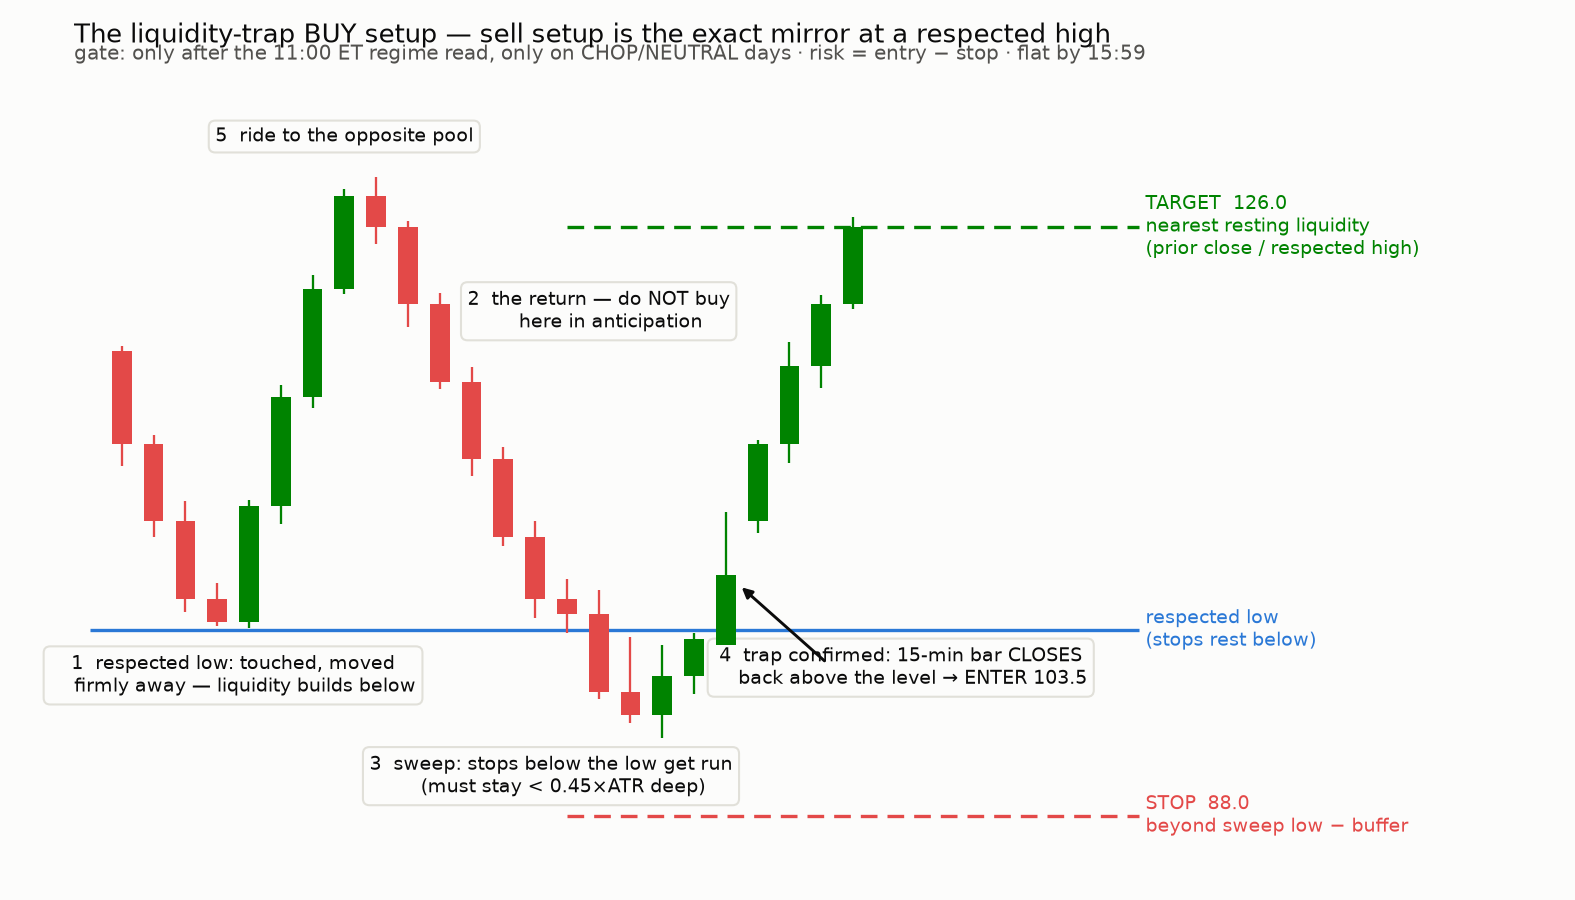
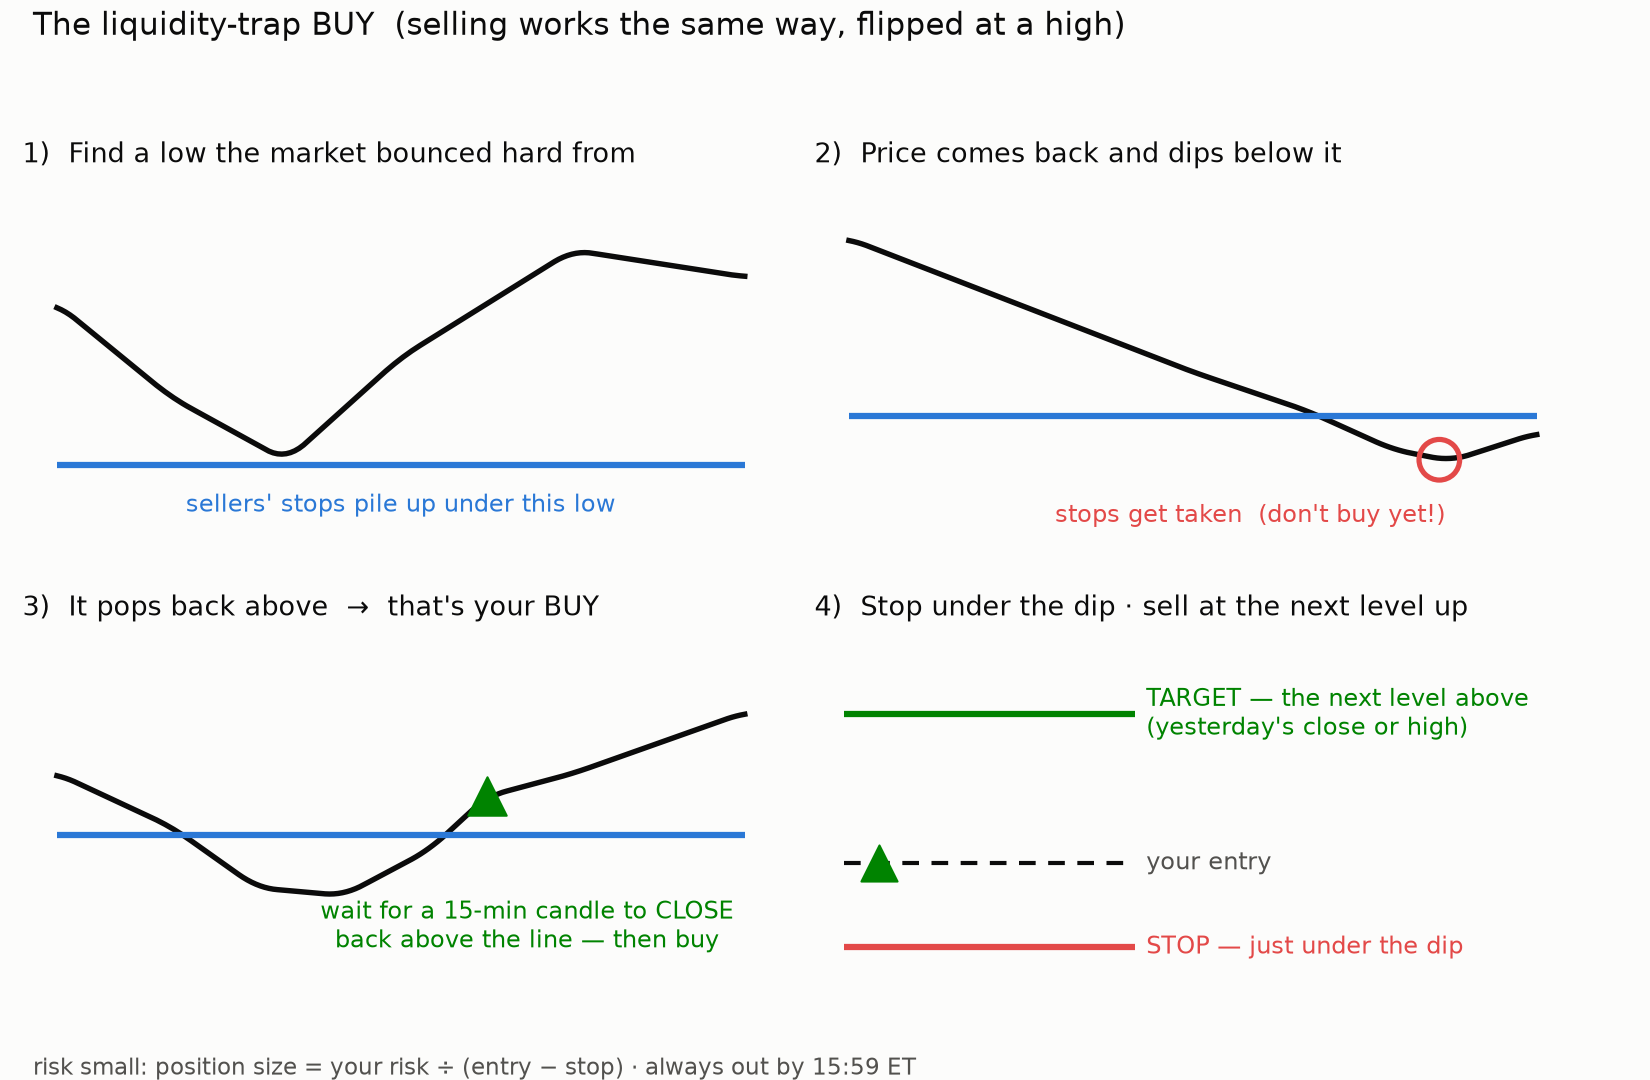
Simplify setup guide charts to storyboard style
Claude-Session: https://claude.ai/code/session_01Fckbt5zimQuUy6dWzGJhzJ

diff --git a/scripts/make_setup_guide.py b/scripts/make_setup_guide.py
@@ -1,7 +1,8 @@
-"""Visual guide to the (gated) liquidity-trap setup. Three figures:
-  1. anatomy of the long setup, every rule annotated
-  2. the three no-trade cases
-  3. the real journaled trade (ES 2026-07-01) on actual 5-min bars
+"""Visual guide to the liquidity-trap setup — storyboard style, one idea per
+panel, minimal text. Three images:
+  guide1: 4-step storyboard of the buy setup
+  guide2: the three "skip it" cases
+  guide3: the real July 1 ES trade, simplified, with the day's check-ins
 """
 
 import sys
@@ -11,7 +12,7 @@ from pathlib import Path
 import matplotlib
 matplotlib.use("Agg")
 import matplotlib.pyplot as plt
-from matplotlib.patches import FancyArrowPatch, Rectangle
+from matplotlib.patches import Rectangle
 import numpy as np
 import pandas as pd
 
@@ -20,208 +21,172 @@ from regime.data import load_ibkr_json
 
 IMG = Path(__file__).resolve().parents[1] / "reports" / "img"
 SURFACE, INK, INK2, MUTED, GRID = "#fcfcfb", "#0b0b0b", "#52514e", "#898781", "#e1e0d9"
-BLUE, GREEN, RED, VIOLET = "#2a78d6", "#008300", "#e34948", "#4a3aa7"
+BLUE, GREEN, RED = "#2a78d6", "#008300", "#e34948"
 
 plt.rcParams.update({
     "figure.facecolor": SURFACE, "axes.facecolor": SURFACE,
-    "font.family": "sans-serif", "text.color": INK,
-    "axes.edgecolor": "#c3c2b7", "axes.labelcolor": INK2,
-    "xtick.color": MUTED, "ytick.color": MUTED,
-    "axes.grid": False,
+    "font.family": "sans-serif", "text.color": INK, "axes.grid": False,
     "axes.spines.top": False, "axes.spines.right": False,
     "axes.spines.left": False, "axes.spines.bottom": False,
 })
 
 
-def candles(ax, o, h, l, c, x0=0, alpha=1.0, w=0.62):
-    for i, (oo, hh, ll, cc) in enumerate(zip(o, h, l, c)):
-        x = x0 + i
-        up = cc >= oo
-        col = GREEN if up else RED
-        ax.vlines(x, ll, hh, color=col, lw=1.1, alpha=alpha, zorder=3)
-        lo, hi = (oo, cc) if up else (cc, oo)
-        ax.add_patch(Rectangle((x - w / 2, lo), w, max(hi - lo, 0.15),
-                               facecolor=col, edgecolor="none", alpha=alpha, zorder=4))
+def smooth(keys, n=160):
+    """Smooth line path through (x, y) key points."""
+    kx, ky = zip(*keys)
+    x = np.linspace(kx[0], kx[-1], n)
+    y = np.interp(x, kx, ky)
+    k = 9
+    pad = np.r_[np.full(k // 2, y[0]), y, np.full(k // 2, y[-1])]
+    return x, np.convolve(pad, np.ones(k) / k, "valid")
 
 
-def path_to_ohlc(pts, spread=1.6, seed=7):
-    rng = np.random.default_rng(seed)
-    o = np.array(pts[:-1], float)
-    c = np.array(pts[1:], float)
-    h = np.maximum(o, c) + rng.uniform(0.2, spread, len(o))
-    l = np.minimum(o, c) - rng.uniform(0.2, spread, len(o))
-    return o, h, l, c
+def clean(ax):
+    ax.set_xticks([])
+    ax.set_yticks([])
 
 
-# ------------------------------------------------------------------ fig 1
-LVL, EXT, ENT, STP, TGT = 100.0, 93.0, 103.5, 88.0, 126.0
-pts = [118, 112, 107, 102, 100.5, 108, 115, 122, 128, 126, 121, 116, 111, 106,
-       102, 101, 96, 94.5, 97, 103.5, 107, 112, 117, 121, 126]
-o, h, l, c = path_to_ohlc(pts, seed=3)
-l[3] = 100.2; l[4] = LVL + 0.1          # the respected touch stays above
-h[16] = LVL - 0.5; h[17] = LVL - 1.0    # sweep bars stay below the level
-l[16] = 94.0; l[17] = EXT               # sweep extreme
-c[18] = LVL - 0.6; h[18] = LVL - 0.2    # stall below
-o[19] = 99.0; c[19] = ENT               # reclaim close = entry bar
+LVL = 100
 
-fig, ax = plt.subplots(figsize=(10.5, 6.0), dpi=150)
-candles(ax, o, h, l, c)
-n = len(o)
-ax.hlines(LVL, -1, n + 8, color=BLUE, lw=1.6)
-ax.text(n + 8.2, LVL, "respected low\n(stops rest below)", color=BLUE, fontsize=9, va="center")
-ax.hlines(STP, 14, n + 8, color=RED, lw=1.6, ls=(0, (5, 3)))
-ax.text(n + 8.2, STP, "STOP  88.0\nbeyond sweep low − buffer", color=RED, fontsize=9, va="center")
-ax.hlines(TGT, 14, n + 8, color=GREEN, lw=1.6, ls=(0, (5, 3)))
-ax.text(n + 8.2, TGT, "TARGET  126.0\nnearest resting liquidity\n(prior close / respected high)", color=GREEN, fontsize=9, va="center")
-
-steps = [
-    (3.5, 96.0, "1  respected low: touched, moved\n    firmly away — liquidity builds below", "center"),
-    (15.0, 119.5, "2  the return — do NOT buy\n    here in anticipation", "center"),
-    (13.5, 89.5, "3  sweep: stops below the low get run\n    (must stay < 0.45×ATR deep)", "center"),
-    (24.5, 96.5, "4  trap confirmed: 15-min bar CLOSES\n    back above the level → ENTER 103.5", "center"),
-    (7.0, 131.5, "5  ride to the opposite pool", "center"),
+# ------------------------------------------------------------ guide 1
+fig, axes = plt.subplots(2, 2, figsize=(11, 7.2), dpi=150)
+titles = [
+    "1)  Find a low the market bounced hard from",
+    "2)  Price comes back and dips below it",
+    "3)  It pops back above  →  that's your BUY",
+    "4)  Stop under the dip · sell at the next level up",
 ]
-for x, y, txt, ha in steps:
-    ax.text(x, y, txt, fontsize=9, color=INK, ha=ha,
-            bbox=dict(facecolor=SURFACE, edgecolor=GRID, boxstyle="round,pad=0.35"))
-ax.annotate("", xy=(19.4, ENT - 0.6), xytext=(22.2, 97.8),
-            arrowprops=dict(arrowstyle="-|>", color=INK, lw=1.4))
-ax.set_xlim(-1.5, n + 21)
-ax.set_ylim(84, 136)
-ax.set_yticks([])
-ax.set_xticks([])
-ax.set_title("The liquidity-trap BUY setup — sell setup is the exact mirror at a respected high",
-             fontsize=12.5, loc="left", color=INK, pad=14)
-ax.text(0, 1.015, "gate: only after the 11:00 ET regime read, only on CHOP/NEUTRAL days · risk = entry − stop · flat by 15:59",
-        transform=ax.transAxes, fontsize=9.5, color=INK2)
-fig.tight_layout()
+
+# panel 1: bounce away
+ax = axes[0, 0]
+x, y = smooth([(0, 112), (2, 105), (4, 100.3), (6, 108), (9, 116), (12, 114)])
+ax.plot(x, y, color=INK, lw=2.6)
+ax.hlines(LVL, 0, 12, color=BLUE, lw=3)
+ax.text(6, 96.5, "sellers' stops pile up under this low", fontsize=11.5, color=BLUE, ha="center")
+ax.set_ylim(92, 121)
+
+# panel 2: return + dip below
+ax = axes[0, 1]
+x, y = smooth([(0, 116), (3, 110), (6, 104), (8, 100.5), (9.5, 97), (10.5, 96), (12, 98.5)])
+ax.plot(x, y, color=INK, lw=2.6)
+ax.hlines(LVL, 0, 12, color=BLUE, lw=3)
+ax.scatter([10.3], [96.1], s=380, facecolor="none", edgecolor=RED, lw=2.5, zorder=5)
+ax.text(7.0, 90.5, "stops get taken  (don't buy yet!)", fontsize=11.5, color=RED, ha="center")
+ax.set_ylim(86, 121)
+
+# panel 3: reclaim = entry
+ax = axes[1, 0]
+x, y = smooth([(0, 104), (2, 100.5), (3.5, 96.5), (5, 96), (6.5, 99), (7.5, 102.5), (9, 104), (12, 108)])
+ax.plot(x, y, color=INK, lw=2.6)
+ax.hlines(LVL, 0, 12, color=BLUE, lw=3)
+ax.scatter([7.5], [102.5], marker="^", s=340, color=GREEN, zorder=5)
+ax.text(8.2, 92.6, "wait for a 15-min candle to CLOSE\nback above the line — then buy",
+        fontsize=11.5, color=GREEN, ha="center")
+ax.set_ylim(87.5, 113)
+
+# panel 4: the bracket
+ax = axes[1, 1]
+ax.hlines(96, 1, 11, color=RED, lw=3)
+ax.hlines(102.5, 1, 11, color=INK, lw=2, ls=(0, (4, 3)))
+ax.hlines(114, 1, 11, color=GREEN, lw=3)
+ax.scatter([2.2], [102.5], marker="^", s=300, color=GREEN, zorder=5)
+ax.text(11.4, 96, "STOP — just under the dip", fontsize=11.5, color=RED, va="center")
+ax.text(11.4, 102.5, "your entry", fontsize=11.5, color=INK2, va="center")
+ax.text(11.4, 114, "TARGET — the next level above\n(yesterday's close or high)", fontsize=11.5, color=GREEN, va="center")
+ax.set_xlim(0, 26)
+ax.set_ylim(90, 120)
+
+for ax, t in zip(axes.flat, titles):
+    ax.set_title(t, fontsize=13, loc="left", color=INK, pad=10)
+    clean(ax)
+fig.suptitle("The liquidity-trap BUY  (selling works the same way, flipped at a high)",
+             fontsize=15, x=0.02, ha="left", color=INK, y=0.99)
+fig.text(0.02, 0.005, "risk small: position size = your risk ÷ (entry − stop) · always out by 15:59 ET",
+         fontsize=11, color=INK2)
+fig.tight_layout(rect=[0, 0.03, 1, 0.94])
 fig.savefig(IMG / "guide1_anatomy.png", facecolor=SURFACE)
 
-# ------------------------------------------------------------------ fig 2
-fig, axes = plt.subplots(1, 3, figsize=(12.5, 4.4), dpi=150)
+# ------------------------------------------------------------ guide 2
+fig, axes = plt.subplots(1, 3, figsize=(12, 4.0), dpi=150)
 
-# (a) gap through
-pts_a = [96, 94, 92.5, 94.5, 93, 91, 92.5, 90.5, 92, 90]
-o2, h2, l2, c2 = path_to_ohlc(pts_a, spread=1.0, seed=5)
-axes[0].hlines(100, -1, len(o2) + 0.5, color=BLUE, lw=1.6)
-candles(axes[0], o2, h2, l2, c2)
-axes[0].set_ylim(85, 107)
-axes[0].text(len(o2) / 2, 102.2, "level 100 — session OPENED below it",
-             fontsize=9, ha="center", color=INK)
-axes[0].set_title("NO TRADE: gap through the level", fontsize=10.5, loc="left", color=RED, pad=12)
-axes[0].text(0, -0.06, "stops were consumed on the gap —\nno liquidity left to trap",
-             transform=axes[0].transAxes, fontsize=9, color=INK2, va="top")
+ax = axes[0]
+x, y = smooth([(0, 96), (3, 93), (6, 95), (9, 92), (12, 93.5)])
+ax.plot(x, y, color=INK, lw=2.6)
+ax.hlines(LVL, 0, 12, color=BLUE, lw=3)
+ax.set_ylim(86, 108)
+ax.set_title("✗  Day OPENED below the level", fontsize=12.5, loc="left", color=RED, pad=10)
+ax.text(0, -0.04, "stops already taken overnight —\nnothing left to trap", transform=ax.transAxes,
+        fontsize=11, color=INK2, va="top")
 
-# (b) too deep
-pts_b = [108, 104, 101, 99, 95, 88, 79, 70, 62, 56, 52]
-o2, h2, l2, c2 = path_to_ohlc(pts_b, spread=1.4, seed=8)
-axes[1].hlines(100, -1, len(o2) + 0.5, color=BLUE, lw=1.6)
-axes[1].hlines(55, -1, len(o2) + 0.5, color=RED, lw=1.2, ls=(0, (4, 3)))
-candles(axes[1], o2, h2, l2, c2)
-axes[1].set_ylim(40, 122)
-axes[1].text(len(o2) / 2, 113, "swept, kept going: > 0.45×ATR below", fontsize=9, ha="center", color=INK)
-axes[1].text(len(o2) / 2, 46, "0.45×ATR invalidation line", fontsize=8.5, ha="center", color=RED)
-axes[1].set_title("NO TRADE: sweep too deep — breakdown", fontsize=10.5, loc="left", color=RED, pad=12)
-axes[1].text(0, -0.06, "a trap stalls just past the level;\nacceptance beyond it = real move",
-             transform=axes[1].transAxes, fontsize=9, color=INK2, va="top")
+ax = axes[1]
+x, y = smooth([(0, 108), (3, 103), (5, 99), (7, 92), (9, 83), (12, 76)])
+ax.plot(x, y, color=INK, lw=2.6)
+ax.hlines(LVL, 0, 12, color=BLUE, lw=3)
+ax.set_ylim(68, 114)
+ax.set_title("✗  Dipped WAY below and stayed", fontsize=12.5, loc="left", color=RED, pad=10)
+ax.text(0, -0.04, "real breakdown, not a stop-run —\ndon't catch it", transform=ax.transAxes,
+        fontsize=11, color=INK2, va="top")
 
-# (c) trend day
-pts_c = [116, 112, 108, 103, 99, 96, 92, 88, 85, 81, 78]
-o2, h2, l2, c2 = path_to_ohlc(pts_c, spread=1.2, seed=11)
-axes[2].hlines(100, -1, len(o2) + 0.5, color=BLUE, lw=1.6)
-candles(axes[2], o2, h2, l2, c2)
-axes[2].set_ylim(68, 128)
-axes[2].text(len(o2) / 2, 121, "11:00 read said TREND_DOWN", fontsize=9, ha="center", color=INK)
-axes[2].set_title("NO TRADE: trend-day sweep = run", fontsize=10.5, loc="left", color=RED, pad=12)
-axes[2].text(0, -0.06, "on trend days the sweep IS the move —\nfading it funded the other side (Jul 2 NQ: −170 more pts)",
-             transform=axes[2].transAxes, fontsize=9, color=INK2, va="top")
+ax = axes[2]
+x, y = smooth([(0, 118), (3, 112), (6, 104), (8, 99), (10, 93), (12, 88)])
+ax.plot(x, y, color=INK, lw=2.6)
+ax.hlines(LVL, 0, 12, color=BLUE, lw=3)
+ax.set_ylim(80, 124)
+ax.set_title("✗  It's a TREND day", fontsize=12.5, loc="left", color=RED, pad=10)
+ax.text(0, -0.04, "the 11:00 read says TREND —\nonly trade traps on chop days", transform=ax.transAxes,
+        fontsize=11, color=INK2, va="top")
 
-for a in axes:
-    a.set_xticks([]); a.set_yticks([])
-fig.suptitle("The three filters that make the setup tradeable — each one is backtest-verified",
-             fontsize=12, x=0.01, ha="left", color=INK)
-fig.tight_layout(rect=[0, 0.09, 1, 0.94])
+for ax in axes:
+    clean(ax)
+fig.suptitle("Skip the trade when…", fontsize=15, x=0.02, ha="left", color=INK)
+fig.tight_layout(rect=[0, 0.10, 1, 0.90])
 fig.savefig(IMG / "guide2_no_trade.png", facecolor=SURFACE)
 
-# ------------------------------------------------------------------ fig 3: the real trade
+# ------------------------------------------------------------ guide 3
 es = load_ibkr_json(Path(__file__).resolve().parents[1] / "data" / "es_5min_live.json")
 day = es[(pd.Series(es.index.date, index=es.index) == pd.Timestamp("2026-07-01").date())
          & (es.index.time >= dtime(9, 30)) & (es.index.time < dtime(16, 0))]
-LVL3, EXT3, ENT3, STP3, TGT3 = 7567.75, 7579.00, 7559.75, 7584.72, 7550.75
+LVL3, ENT3, STP3, TGT3 = 7567.75, 7559.75, 7584.72, 7550.75
 
-fig, ax = plt.subplots(figsize=(10.5, 5.6), dpi=150)
-candles(ax, day["open"].values, day["high"].values, day["low"].values, day["close"].values, w=0.55)
+fig, ax = plt.subplots(figsize=(11, 6.2), dpi=150)
+ax.plot(range(len(day)), day["close"].values, color=INK, lw=1.8)
 n = len(day)
-for y, txt, col, ls in [
-    (LVL3, f"prior-day high {LVL3:,.2f} (respected level)", BLUE, "solid"),
-    (STP3, f"stop {STP3:,.2f}", RED, (0, (5, 3))),
-    (TGT3, f"target {TGT3:,.2f} = overnight high (nearest pool)", GREEN, (0, (5, 3))),
-]:
-    ax.hlines(y, -1, n + 2, color=col, lw=1.5, ls=ls)
-    ax.text(n + 2.5, y, txt, color=col, fontsize=9, va="center")
+ax.hlines(LVL3, 0, n, color=BLUE, lw=3)
+ax.hlines(STP3, 0, n, color=RED, lw=2, ls=(0, (5, 3)))
+ax.hlines(TGT3, 0, n, color=GREEN, lw=3)
+ax.text(n + 1, LVL3, "yesterday's high\n(the level)", color=BLUE, fontsize=12, va="center")
+ax.text(n + 1, STP3, "stop", color=RED, fontsize=12, va="center")
+ax.text(n + 1, TGT3, "target = next level below", color=GREEN, fontsize=12, va="center")
 
 x_of = {ts: i for i, ts in enumerate(day.index)}
-sweep_x = x_of[day[day["high"] >= EXT3].index[0]]
-ent_ts = [ts for ts in day.index if ts.time() == dtime(12, 45)][0]
-ent_x = x_of[ent_ts]
-tgt_ts = day.index[(day.index > ent_ts) & (day["low"] <= TGT3)][0]
+sweep_x = x_of[day[day["high"] >= 7578].index[0]]
+ent_x = x_of[[ts for ts in day.index if ts.time() == dtime(12, 45)][0]]
+tgt_ts = day.index[(day.index > day.index[ent_x]) & (day["low"] <= TGT3)][0]
 tgt_x = x_of[tgt_ts]
 
-ax.annotate(f"sweep of the level\nruns to {EXT3:,.2f}", xy=(sweep_x, EXT3), xytext=(sweep_x - 14, EXT3 + 6),
-            fontsize=9, color=INK, arrowprops=dict(arrowstyle="-|>", color=INK, lw=1.2),
-            bbox=dict(facecolor=SURFACE, edgecolor=GRID, boxstyle="round,pad=0.35"))
-ax.annotate(f"12:45 — 15-min close back under the level\nSHORT {ENT3:,.2f}", xy=(ent_x, ENT3),
-            xytext=(ent_x + 4, ENT3 + 14), fontsize=9, color=INK,
-            arrowprops=dict(arrowstyle="-|>", color=INK, lw=1.2),
-            bbox=dict(facecolor=SURFACE, edgecolor=GRID, boxstyle="round,pad=0.35"))
-ax.annotate(f"target hit {tgt_ts.strftime('%H:%M')}  (+9.00 pts, +0.08 ATR)", xy=(tgt_x, TGT3),
-            xytext=(tgt_x - 26, TGT3 - 9), fontsize=9, color=GREEN,
-            arrowprops=dict(arrowstyle="-|>", color=GREEN, lw=1.2),
-            bbox=dict(facecolor=SURFACE, edgecolor=GRID, boxstyle="round,pad=0.35"))
+ax.scatter([sweep_x], [7579], s=500, facecolor="none", edgecolor=RED, lw=2.5, zorder=5)
+ax.annotate("1) buyers' stops above\nyesterday's high get taken", xy=(sweep_x, 7580.5),
+            xytext=(sweep_x - 26, 7588), fontsize=12, color=RED,
+            arrowprops=dict(arrowstyle="-|>", color=RED, lw=1.6))
+ax.scatter([ent_x], [ENT3], marker="v", s=340, color=RED, zorder=5)
+ax.annotate("2) price falls back under the line\n→ SELL 7,559.75", xy=(ent_x, ENT3),
+            xytext=(ent_x + 8, 7572), fontsize=12, color=INK,
+            arrowprops=dict(arrowstyle="-|>", color=INK, lw=1.6))
+ax.annotate("3) target hit  +9 pts", xy=(tgt_x, TGT3), xytext=(tgt_x - 6, 7541),
+            fontsize=12, color=GREEN, arrowprops=dict(arrowstyle="-|>", color=GREEN, lw=1.6))
 
-ticks = [i for i, ts in enumerate(day.index) if ts.minute == 0 and ts.hour % 1 == 0]
-ax.set_xticks(ticks, [day.index[i].strftime("%H:%M") for i in ticks], fontsize=8.5)
-ax.set_xlim(-1.5, n + 26)
-ax.margins(y=0.30)
-
-# ---- what the system said at each daily check-in (computed, not scripted)
-A = 114.49  # Jul-1 ATR ref (ETF ATR scaled by prior close, as in the study)
-pre1030 = day[day.index.time < dtime(10, 30)]
-r1030 = float(pre1030["high"].max() - pre1030["low"].min())
-fh = day[day.index.time < dtime(11, 0)]
-p_dec = float(fh["close"].iloc[-1])
-moc = float(day["close"].iloc[-1])
-long_pnl = moc - p_dec
-xform = ax.get_xaxis_transform()  # x in data, y in axes fraction
-pos_v = (p_dec - float(fh["low"].min())) / (float(fh["high"].max()) - float(fh["low"].min()))
-checkins = [
-    (dtime(10, 30), 0.995,
-     f"10:33 veto check\nrange {r1030:.0f} > {0.35 * A:.0f} pts\n→ not a compression day"),
-    (dtime(11, 0), None, None),   # vline only; text goes in the bottom-left box
-    (dtime(13, 30), 0.995,
-     "13:33 scan\ntrap SHORT working\n(entered 12:45)"),
-]
-for tt, ytop, txt in checkins:
-    xi = next(i for i, ts in enumerate(day.index) if ts.time() >= tt)
-    ax.axvline(xi, color=MUTED, lw=1.0, ls=(0, (1, 2)), alpha=0.8, zorder=1)
-    if txt:
-        ax.text(xi + 0.6, ytop, txt, transform=xform, fontsize=8.2, color=INK2, va="top")
-ax.text(0.015, 0.03,
-        f"11:07 read: NEUTRAL (0.46 ATR, pos {pos_v:.2f}) → traps ON\n"
-        f"band-long also fired @ {p_dec:,.2f}, exits MOC {long_pnl:+,.2f} pts\n"
-        "(the losing side of the day — shown for honesty)",
-        transform=ax.transAxes, fontsize=8.6, color=INK, ha="left", va="bottom",
-        bbox=dict(facecolor=SURFACE, edgecolor=GRID, boxstyle="round,pad=0.4"))
-
-ax.set_title("The setup on real price — ES, July 1 2026 (journaled trade #1)",
-             fontsize=12.5, loc="left", color=INK, pad=14)
-ax.text(0, 1.015, "sweep 11.25 pts = 0.10 ATR (valid, < 0.45) · reclaim after the 11:00 gate ✓",
-        transform=ax.transAxes, fontsize=9.5, color=INK2)
-ax.text(0.985, 0.02, f"16:07 close wrap: day graded CHOP(up) — regime call consistent\n"
-        f"journal: trap short +9.00 pts · band long {long_pnl:+,.2f} pts",
-        transform=ax.transAxes, fontsize=8.6, color=INK, ha="right", va="bottom",
-        bbox=dict(facecolor=SURFACE, edgecolor=GRID, boxstyle="round,pad=0.4"))
-fig.tight_layout()
+ticks = [i for i, ts in enumerate(day.index) if ts.minute == 0 and ts.hour in (10, 12, 14)]
+ax.set_xticks(ticks, [day.index[i].strftime("%H:%M") for i in ticks], fontsize=11)
+ax.set_xlim(-1, n + 22)
+ax.set_ylim(7495, 7596)
+ax.set_yticks([])
+ax.set_title("A real one — ES, July 1: sell the trap at yesterday's high", fontsize=15, loc="left", color=INK, pad=12)
+fig.text(0.02, 0.10, "What our system said that day:", fontsize=11.5, color=INK)
+fig.text(0.02, 0.015,
+         "10:33  not a quiet day — trading allowed        11:07  reading: NEUTRAL → traps allowed\n"
+         "13:33  this short flagged and working              16:07  day ended as chop — call was right · trade +9 pts",
+         fontsize=11, color=INK2)
+fig.tight_layout(rect=[0, 0.13, 1, 1])
 fig.savefig(IMG / "guide3_real_trade.png", facecolor=SURFACE)
 
 print("wrote", sorted(p.name for p in IMG.glob("guide*.png")))
